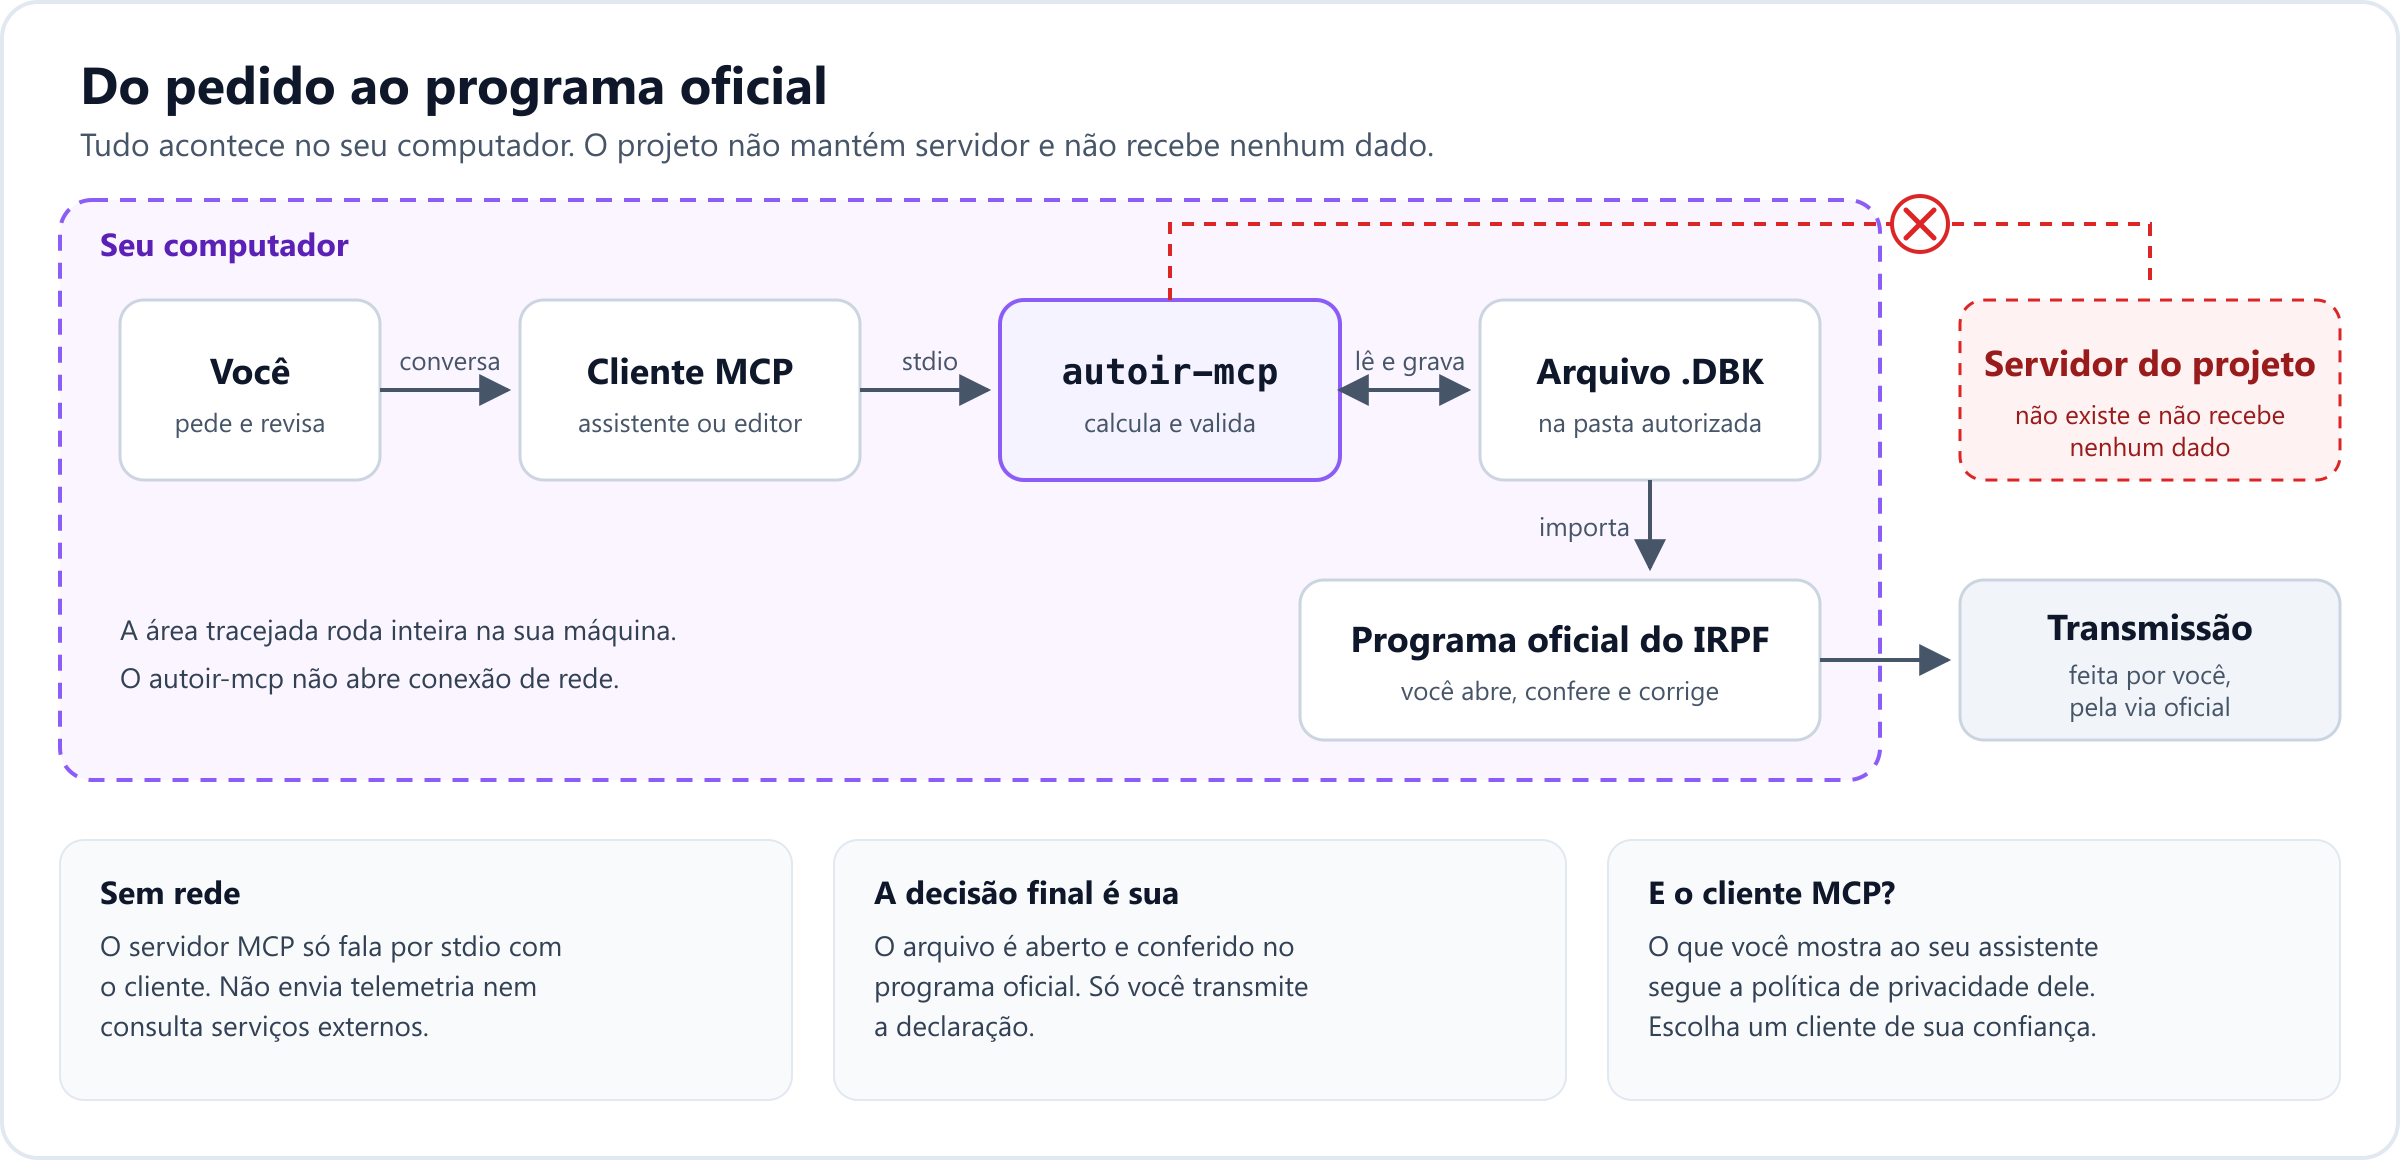
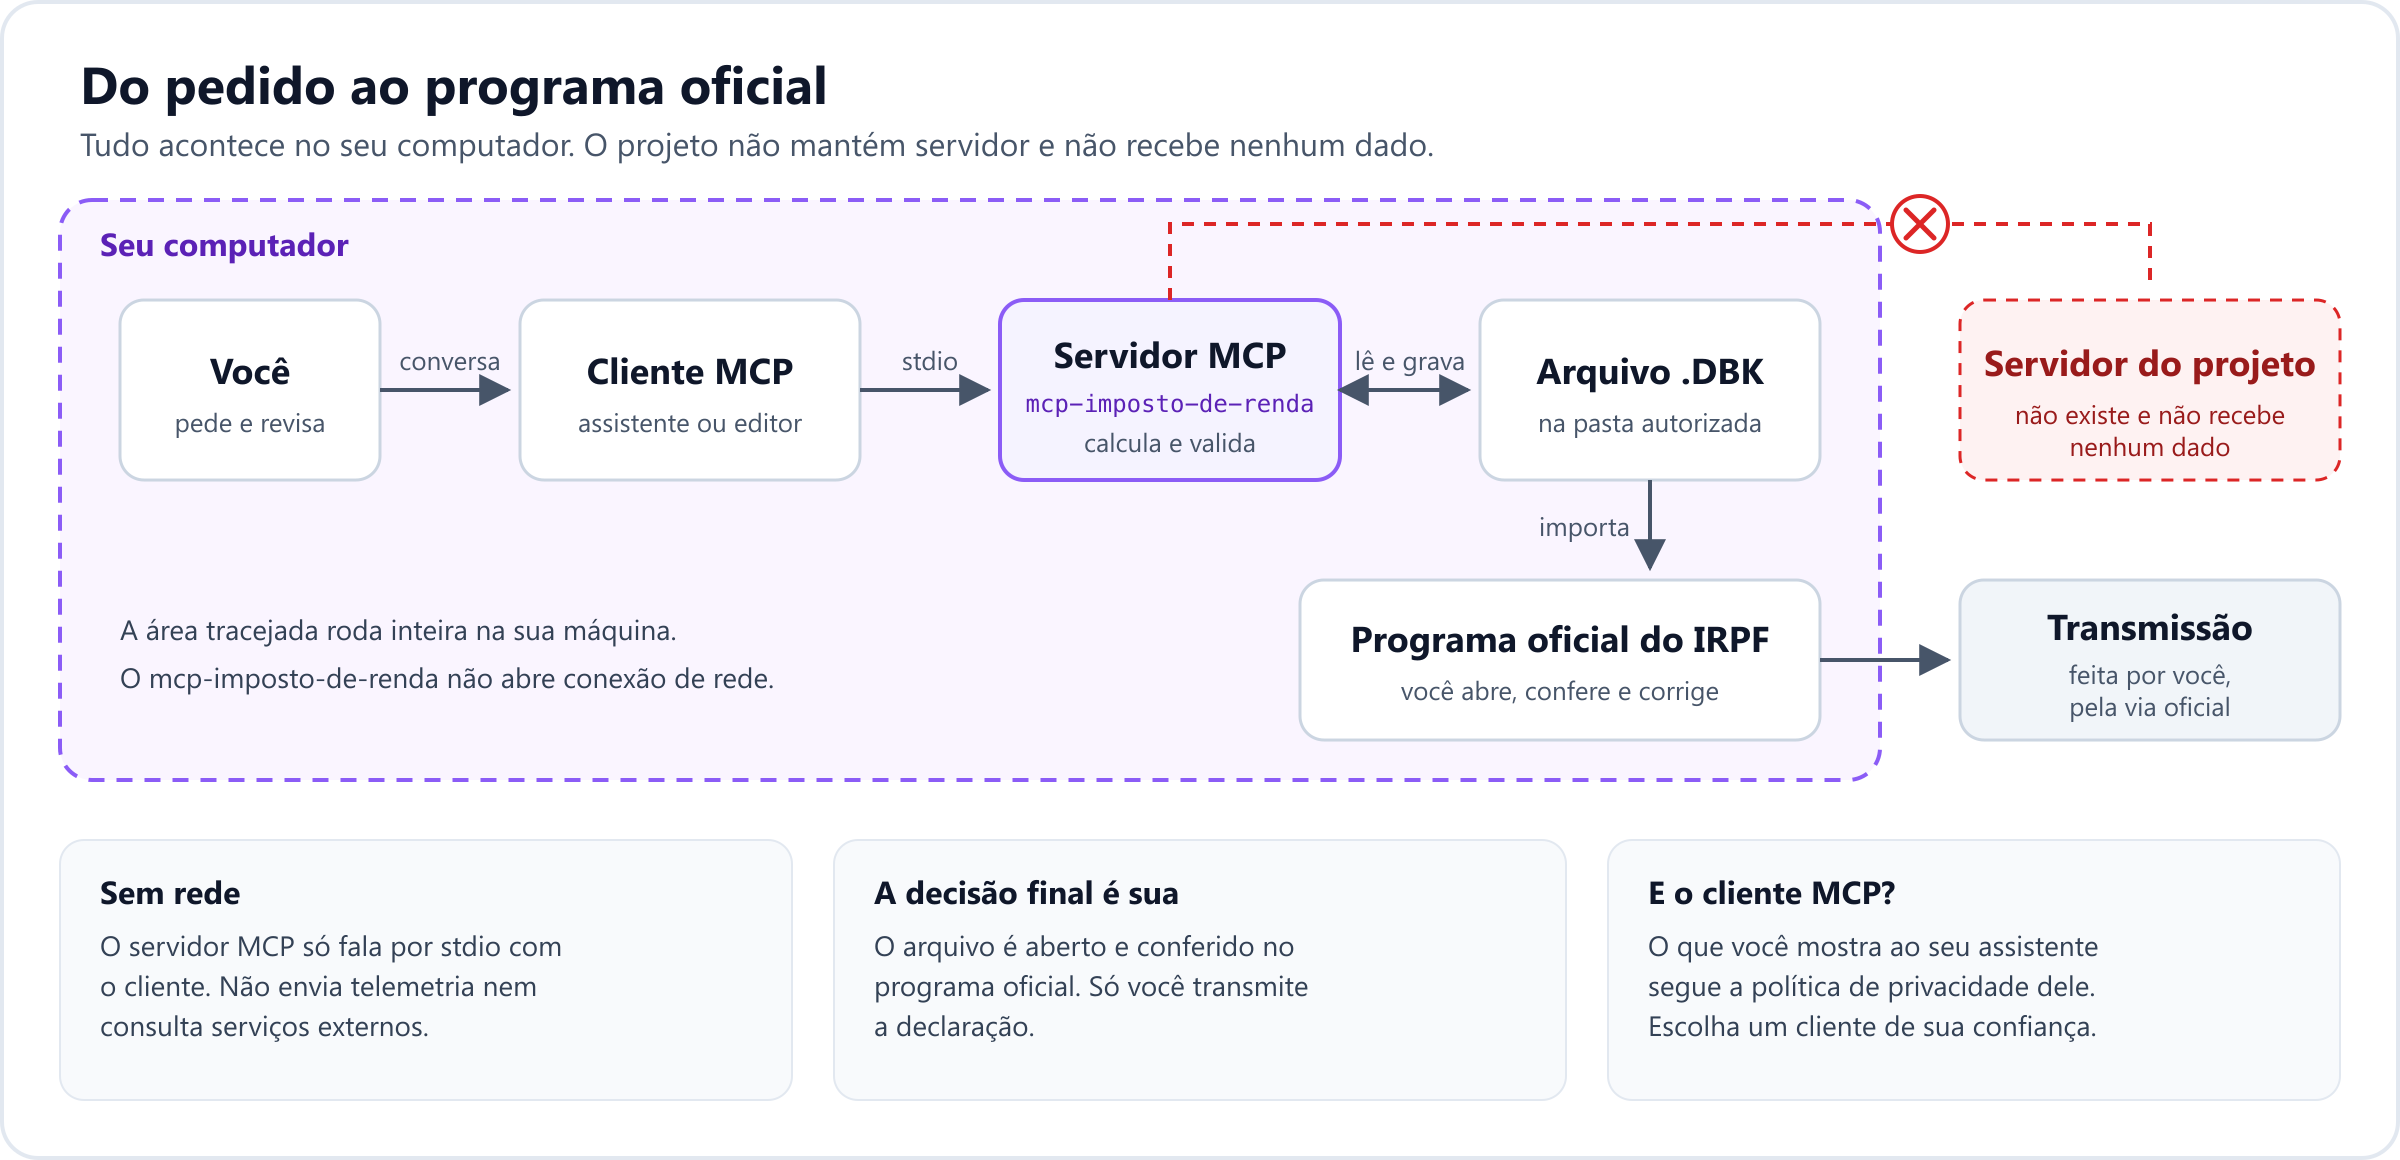
docs: redraw the brand assets with the new project name

Changed region(s): [[0.4375, 0.2793, 0.5625, 0.4034], [0.0625, 0.5586, 0.3125, 0.5897]]

diff --git a/docs/assets/README.md b/docs/assets/README.md
@@ -20,14 +20,14 @@ Logo com troca automática de tema:
 ```html
 <picture>
   <source media="(prefers-color-scheme: dark)" srcset="docs/assets/logo-wordmark-dark.svg">
-  <img alt="AutoIR" src="docs/assets/logo-wordmark.svg" height="48">
+  <img alt="MCP Imposto de Renda" src="docs/assets/logo-wordmark.svg" height="48">
 </picture>
 ```
 
 Diagramas:
 
 ```markdown
-![Arquitetura do AutoIR](docs/assets/arquitetura.svg)
+![Arquitetura do MCP Imposto de Renda](docs/assets/arquitetura.svg)
 ```
 
 ## Regenerar os PNGs
@@ -39,4 +39,4 @@ exiftool -all= -overwrite_original docs/assets/*.png
 xattr -c docs/assets/*
 ```
 
-Nenhuma imagem usa marca, brasão ou identidade visual da Receita Federal ou do governo federal. O AutoIR não é um serviço oficial.
+Nenhuma imagem usa marca, brasão ou identidade visual da Receita Federal ou do governo federal. O MCP Imposto de Renda não é um serviço oficial.
